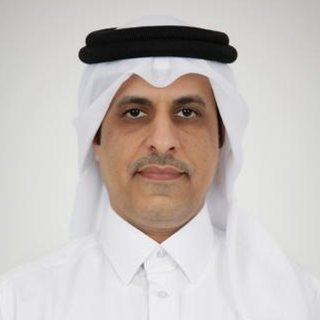
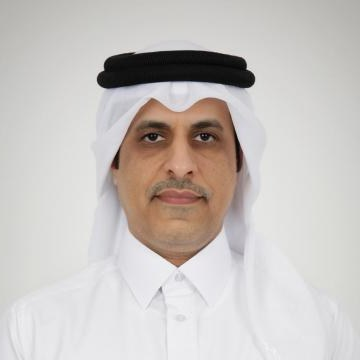
Update speakers and portraits from the 4 Nov brochure edits
Replace the speaker portraits with the client's originals, linked from
"Brochure Edits 4 NOV.docx". The old set was upscaled from the brochure
PDF's ~100px cut-outs; these come from the client's Drive at up to
1206x1044, cropped square and face-centred, and ship at up to 480x480
against a 136px display size.

James Fann and Olivia Powis are only 200x200 at source and still want
better files from the client.

The same document replaces seven panellists, so apply that too: Chowdhury,
Salisu, Fann, Powis, Ranalder, Wencker and Choularton join; Varank,
Al-Khaznadar, Bueno, Chung, Kilani, Torner, Siti Nadia and Schmidt leave.
Every departure had a named replacement, so all five side events keep
four speakers.

Side-Event 1 opens with remarks from Eng. Ahmed Al Sada, who is not on
the panel. Carry that as an optional "opener" id on the event and render
it with the existing speaker card and grid, so no new markup or styles
are needed and any event can take one later.

Changed region(s): [[0.2188, 0.0625, 0.75, 0.8125], [0.4062, 0.7812, 0.4688, 0.875]]

diff --git a/data/content.js b/data/content.js
@@ -106,7 +106,8 @@ window.PAVILION_CONTENT = {
         "image": "assets/img/scenes/event-1.jpg",
         "imageAlt": "A cracked drought plain giving way to a green river corridor and a city skyline",
         "description": "As countries move beyond the formulation of National Adaptation Plans (NAPs), the emphasis is increasingly on implementation, delivery, and impact. Translating adaptation priorities into concrete actions requires effective governance, financing mechanisms, coordination across sectors, and systems to track progress. This panel discussion explores how countries are advancing NAP implementation in practice, highlighting challenges, enabling conditions, and lessons learned.",
-        "speakers": ["saad-al-hitmi", "john-verdieck", "fatma-varank", "julie-teng"]
+        "opener": "ahmed-mohamed-al-sada",
+        "speakers": ["saad-al-hitmi", "john-verdieck", "jahan-chowdhury", "julie-teng"]
       },
       {
         "no": "02",
@@ -117,7 +118,7 @@ window.PAVILION_CONTENT = {
         "image": "assets/img/scenes/event-2.jpg",
         "imageAlt": "Renewable energy infrastructure under an open sky",
         "description": "Measurement, reporting, and verification systems are essential not only for transparency, but also for guiding climate action implementation and accountability. Well-designed transparency systems support policy-making, track progress, and inform future investments. This panel discusses how countries are operationalizing transparency systems that serve both reporting obligations and implementation needs.",
-        "speakers": ["mohamed-al-marri", "suh-yong-chung", "maria-del-pilar-bueno", "siti-nadia-nurul-azizah"]
+        "speakers": ["mohamed-al-marri", "jabiru-salisu", "james-fann", "olivia-powis"]
       },
       {
         "no": "03",
@@ -128,7 +129,7 @@ window.PAVILION_CONTENT = {
         "image": "assets/img/scenes/event-3.jpg",
         "imageAlt": "A city under construction beside wind turbines and solar arrays at sunrise",
         "description": "As updated Nationally Determined Contributions (NDCs) are submitted, attention is increasingly focused on implementation. Delivering NDC commitments requires strong coordination across sectors, clear policy frameworks, financing strategies, and monitoring systems. This panel discussion explores practical approaches to implementing NDCs and turning ambition into measurable results.",
-        "speakers": ["noora-al-yafie", "axel-michaelowa", "javier-torner", "john-kilani"]
+        "speakers": ["noora-al-yafie", "axel-michaelowa", "lea-ranalder", "thomas-wencker"]
       },
       {
         "no": "04",
@@ -139,7 +140,7 @@ window.PAVILION_CONTENT = {
         "image": "assets/img/scenes/event-4.jpg",
         "imageAlt": "A climate analyst reviewing a digital globe and live environmental data",
         "description": "Data, digital platforms, and artificial intelligence are increasingly shaping how climate action is planned, implemented, and monitored. When applied responsibly, digital tools can enhance efficiency, improve decision-making, and strengthen accountability. This panel explores real-world applications, opportunities, and governance considerations related to digital and AI-enabled climate implementation.",
-        "speakers": ["mohamed-al-bader", "colman-hands", "regina-schmidt", "irina-sandu"]
+        "speakers": ["mohamed-al-bader", "colman-hands", "richard-choularton", "irina-sandu"]
       },
       {
         "no": "05",
@@ -150,7 +151,7 @@ window.PAVILION_CONTENT = {
         "image": "assets/img/scenes/event-5.jpg",
         "imageAlt": "Delegates working together over maps and climate reporting data",
         "description": "Developing countries face a range of challenges when preparing National Communications, particularly in meeting reporting obligations under the UNFCCC. These challenges can affect their ability to produce comprehensive, accurate, and timely reports on a regular basis. This session will highlight practical experiences from different countries and explore ways to overcome common challenges, address existing gaps, strengthen technical capacities, and enhance the quality and comprehensiveness of National Communications reporting.",
-        "speakers": ["oubay-m-al-khaznadar", "jigme", "pradeep-kurukulasuriya", "baris-karapinar"]
+        "speakers": ["mahmoud-al-marwani", "jigme", "pradeep-kurukulasuriya", "baris-karapinar"]
       }
     ],
     "directory": {
@@ -176,11 +177,11 @@ window.PAVILION_CONTENT = {
         "photo": "assets/img/speakers/saad-al-hitmi.jpg"
       },
       {
-        "id": "fatma-varank",
-        "name": "Ms. Fatma Varank",
-        "role": "Deputy Minister – Chief Climate Change Negotiator",
-        "org": "Ministry of Environment, Urbanization and Climate Change — Türkiye",
-        "photo": "assets/img/speakers/fatma-varank.jpg"
+        "id": "jahan-chowdhury",
+        "name": "Mr. Jahan Chowdhury",
+        "role": "Chief of Unit for Climate and Environment",
+        "org": "International Fund for Agricultural Development (IFAD) — Global",
+        "photo": "assets/img/speakers/jahan-chowdhury.jpg"
       },
       {
         "id": "mahmoud-al-marwani",
@@ -197,13 +198,6 @@ window.PAVILION_CONTENT = {
         "photo": "assets/img/speakers/mohamed-al-marri.jpg"
       },
       {
-        "id": "oubay-m-al-khaznadar",
-        "name": "Mr. Oubay M. Al-Khaznadar",
-        "role": "Climate Engineer",
-        "org": "Ministry of Environment and Climate Change (MECC) — Qatar",
-        "photo": "assets/img/speakers/oubay-m-al-khaznadar.jpg"
-      },
-      {
         "id": "mohamed-al-bader",
         "name": "Mr. Mohamed al Bader",
         "role": "Head",
@@ -214,21 +208,22 @@ window.PAVILION_CONTENT = {
         "id": "noora-al-yafie",
         "name": "Ms. Noora al Yafie",
         "role": "Head of Adaptation Unit",
-        "org": "Ministry of Environment and Climate Change (MECC) — Qatar"
+        "org": "Ministry of Environment and Climate Change (MECC) — Qatar",
+        "photo": "assets/img/speakers/noora-al-yafie.jpg"
       },
       {
-        "id": "maria-del-pilar-bueno",
-        "name": "Ms. María del Pilar Bueno",
-        "role": "Former Secretary of Climate Change of Argentina / IDEAM",
-        "org": "Ministry of Environment — Colombia",
-        "photo": "assets/img/speakers/maria-del-pilar-bueno.jpg"
+        "id": "james-fann",
+        "name": "Mr. James Fann",
+        "role": "President and Chief Executive Officer",
+        "org": "International CCS Knowledge Centre — Canada",
+        "photo": "assets/img/speakers/james-fann.jpg"
       },
       {
-        "id": "suh-yong-chung",
-        "name": "Mr. Suh-Yong Chung",
-        "role": "Former Greenhouse Gas Inventory & Research Center (GIR) advisor",
-        "org": "Korea Environment Institute (KEI) — Republic of Korea",
-        "photo": "assets/img/speakers/suh-yong-chung.jpg"
+        "id": "jabiru-salisu",
+        "name": "H.E. Jabiru Salisu",
+        "role": "Chief Executive Officer",
+        "org": "AUDA-NEPAD — Nigeria",
+        "photo": "assets/img/speakers/jabiru-salisu.jpg"
       },
       {
         "id": "axel-michaelowa",
@@ -238,25 +233,25 @@ window.PAVILION_CONTENT = {
         "photo": "assets/img/speakers/axel-michaelowa.jpg"
       },
       {
-        "id": "john-kilani",
-        "name": "Dr. John Kilani",
-        "role": "Expert in Climate Change",
-        "org": "Al Attiyah Foundation — Qatar",
-        "photo": "assets/img/speakers/john-kilani.jpg"
+        "id": "thomas-wencker",
+        "name": "Dr. Thomas Wencker",
+        "role": "Climate Change Mitigation Expert",
+        "org": "DEval — Germany",
+        "photo": "assets/img/speakers/thomas-wencker.jpg"
       },
       {
-        "id": "javier-torner",
-        "name": "Mr. Javier Torner",
-        "role": "Regional Advisor on Sustainable Development, Housing and Land Management",
-        "org": "United Nations Economic Commission for Europe (UNECE) — Europe, US, UK",
-        "photo": "assets/img/speakers/javier-torner.jpg"
+        "id": "lea-ranalder",
+        "name": "Ms. Lea Ranalder",
+        "role": "Energy Transition and Sustainable Cities Expert",
+        "org": "United Nations Habitat — Global",
+        "photo": "assets/img/speakers/lea-ranalder.jpg"
       },
       {
-        "id": "siti-nadia-nurul-azizah",
-        "name": "Ms. Siti Nadia Nurul Azizah",
-        "role": "Nature-based Solutions Specialist",
-        "org": "Ministry of Environment and Forestry — Indonesia",
-        "photo": "assets/img/speakers/siti-nadia-nurul-azizah.jpg"
+        "id": "olivia-powis",
+        "name": "Ms. Olivia Powis",
+        "role": "Chief Executive Officer",
+        "org": "Carbon Capture and Storage Association (CCSA) — UK",
+        "photo": "assets/img/speakers/olivia-powis.jpg"
       },
       {
         "id": "julie-teng",
@@ -266,11 +261,11 @@ window.PAVILION_CONTENT = {
         "photo": "assets/img/speakers/julie-teng.jpg"
       },
       {
-        "id": "regina-schmidt",
-        "name": "Ms. Regina Schmidt",
-        "role": "Head of SDG2 Acceleration",
-        "org": "United Nations World Food Programme Innovation (WFP)",
-        "photo": "assets/img/speakers/regina-schmidt.jpg"
+        "id": "richard-choularton",
+        "name": "Mr. Richard Choularton",
+        "role": "Director of Climate and Resilience Service",
+        "org": "World Food Programme (WFP) — Global",
+        "photo": "assets/img/speakers/richard-choularton.jpg"
       },
       {
         "id": "irina-sandu",

diff --git a/assets/js/app.js b/assets/js/app.js
@@ -238,6 +238,13 @@
           "</div>" +
         "</div>" +
 
+        /* ponytail: an event may open with remarks from someone who is not
+           on the panel; reuse the speaker card and grid, no new markup */
+        (byId[ev.opener]
+          ? '<h4 class="eyebrow panel__sub">Opening remarks</h4>' +
+            '<ul class="speakers">' + speakerCard(byId[ev.opener]) + "</ul>"
+          : "") +
+
         /* speakers get the full panel width so all four sit on one row */
         '<h4 class="eyebrow panel__sub">Speakers</h4>' +
         '<ul class="speakers">' +
@@ -252,7 +259,7 @@
        to the session(s) they speak at */
     var directory = p.speakers.map(function (s) {
       return speakerCard(s, p.events.map(function (ev, i) {
-        return ev.speakers.indexOf(s.id) < 0 ? "" :
+        return ev.speakers.indexOf(s.id) < 0 && ev.opener !== s.id ? "" :
           '<a class="speaker__session" href="#tab-' + i + '" data-tab="' + i + '">' +
             "<span>Side-Event " + esc(ev.no) + " &middot;</span> <span>" + dayLabel(ev.start) + "</span></a>";
       }).join(""));
